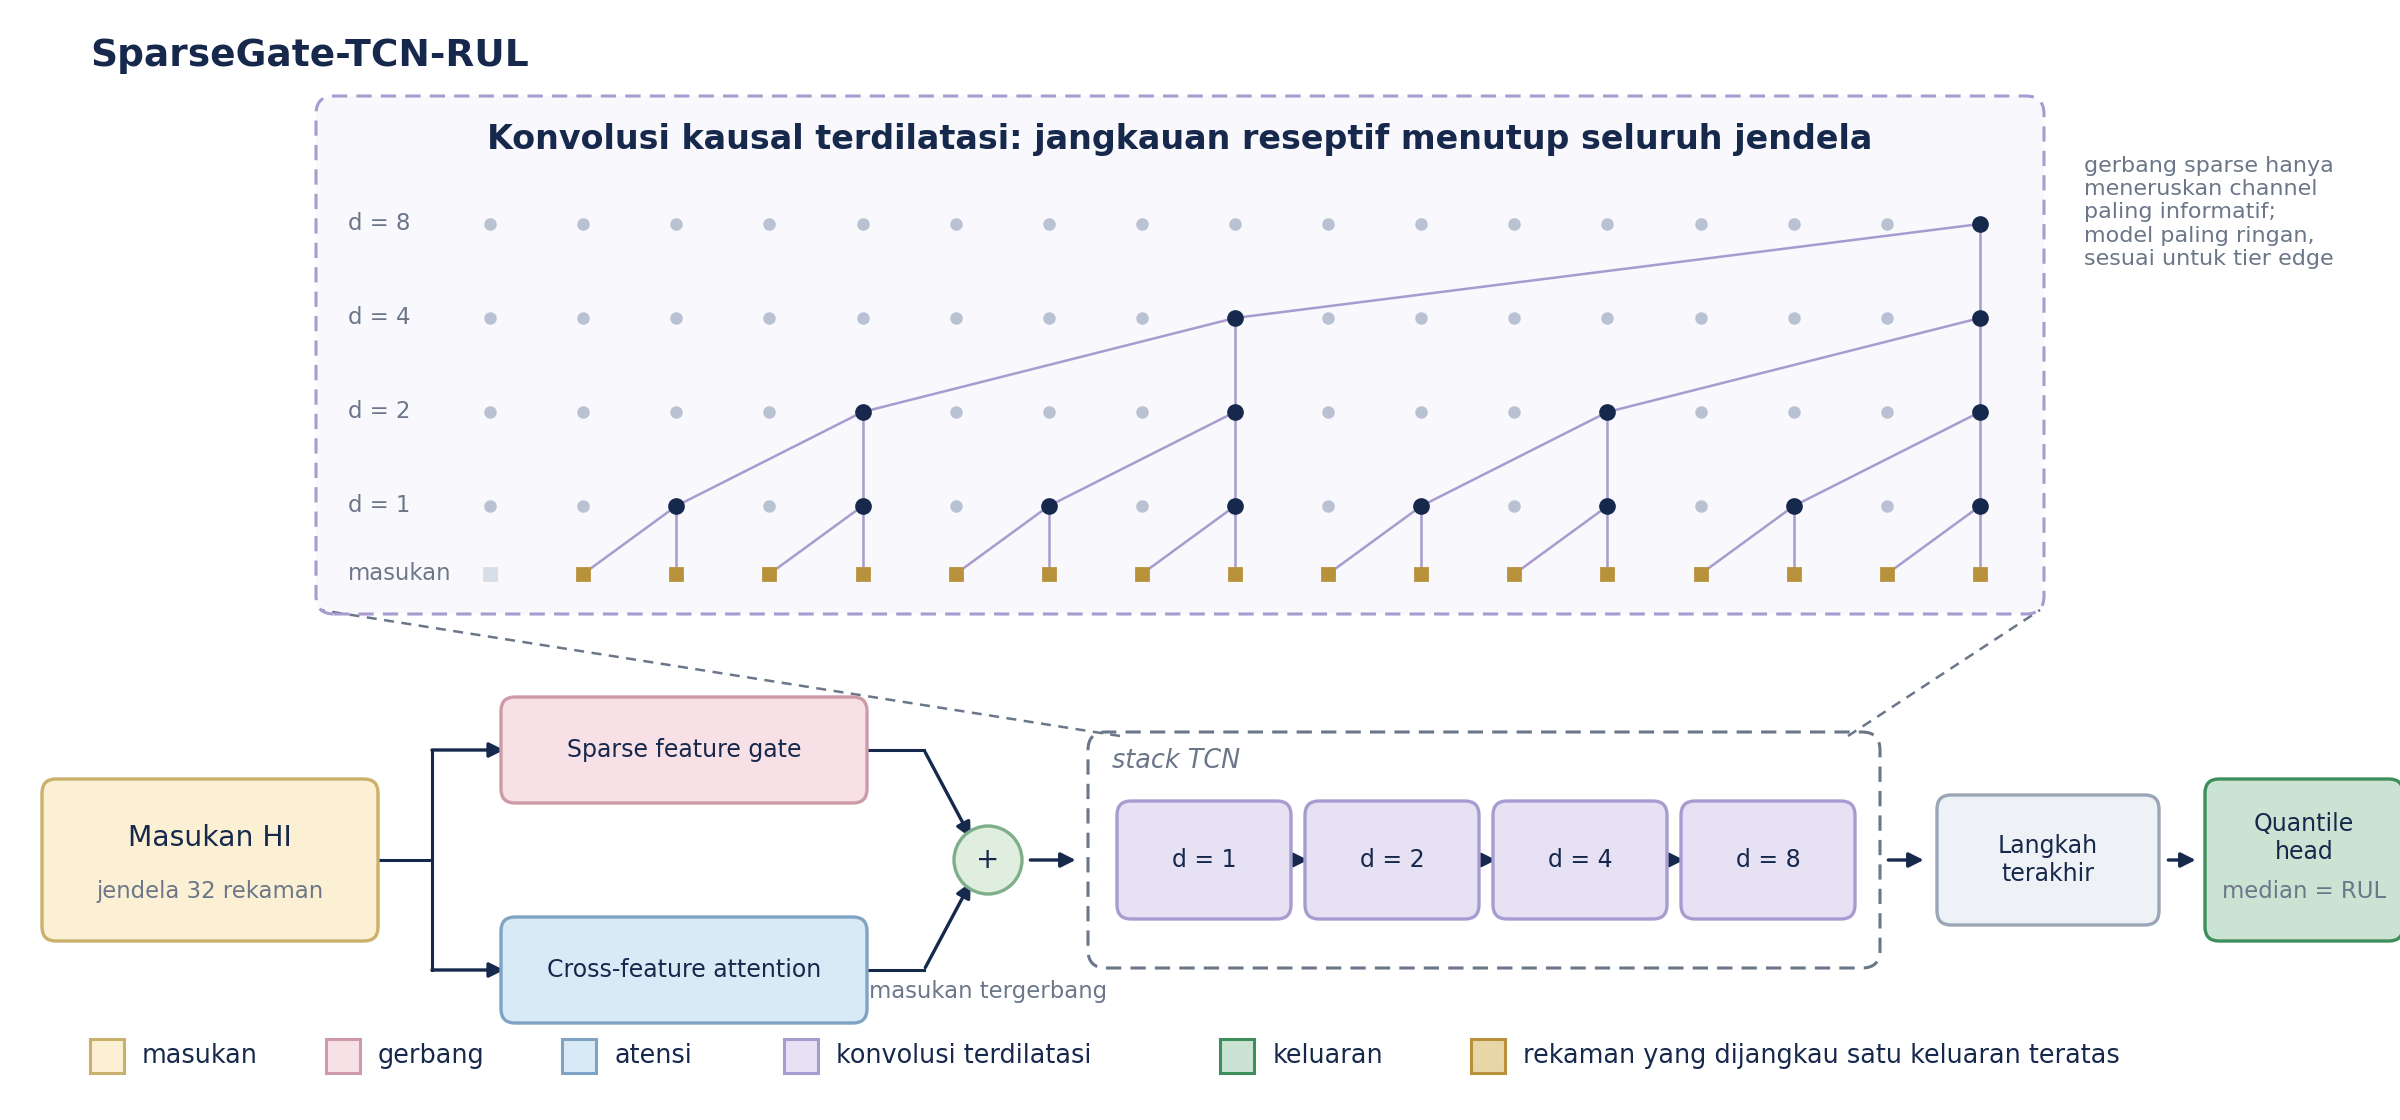
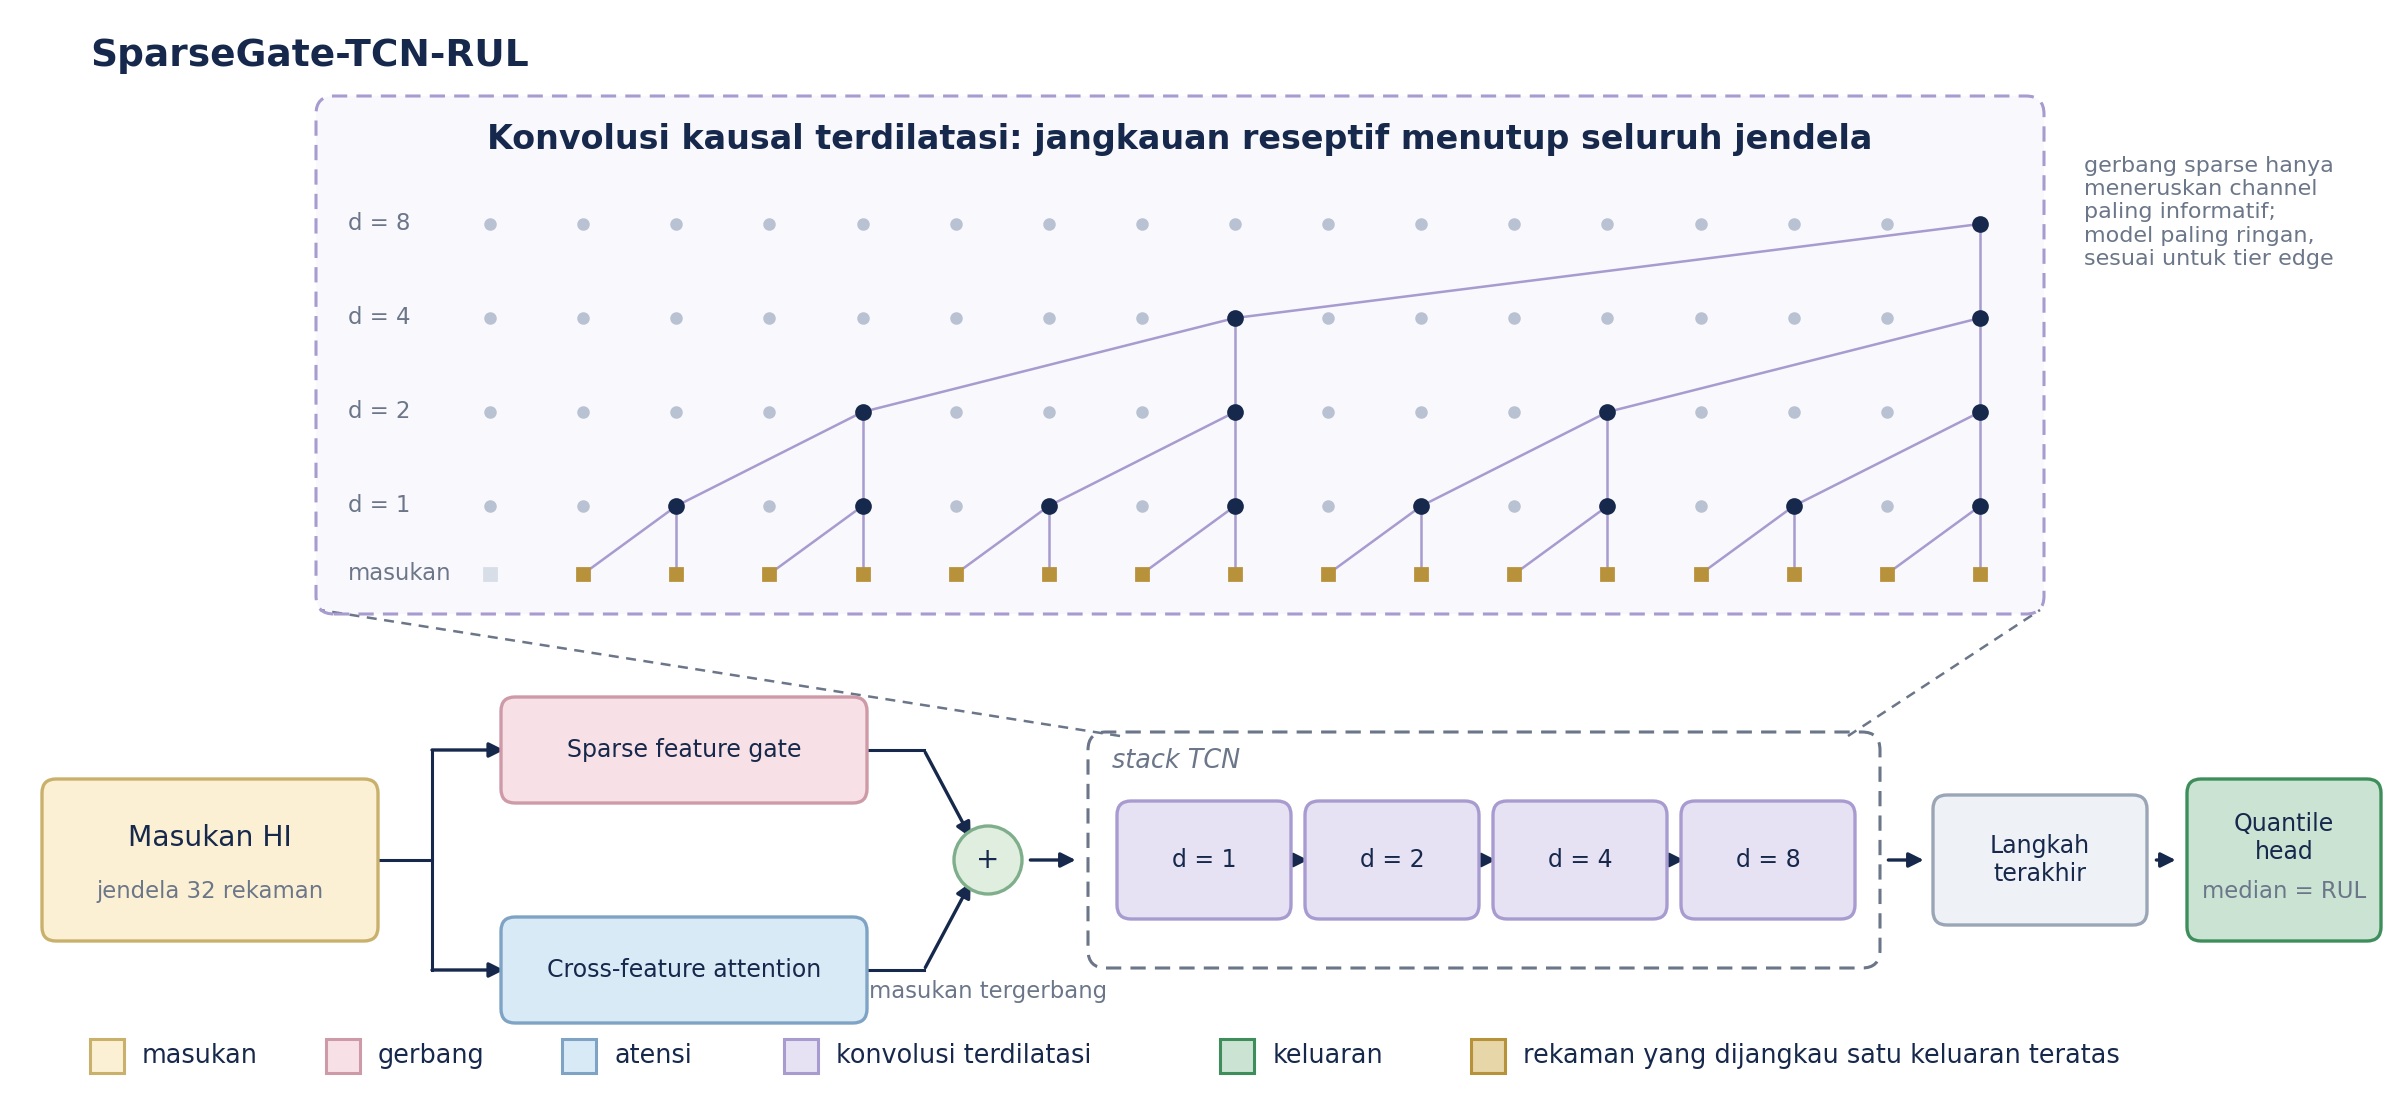
fix(presentation): diagram sizing polish + README for the diagram pipeline
Pin figure heights where wide-flat diagrams letterboxed inside flex cards
(SAE, SAE-BPFx, WDCNN backup), compress the WDCNN canvas so it renders
larger on its slide, keep edge-hugging boxes inside the diagram canvas,
and swap the Mamba slide's overflowing kvrows for a flowing bullet panel.
README documents make diagrams, the shared palette, and the 52-slide
structure. 129 tests green.

Claude-Session: https://claude.ai/code/session_01VPxUBMA37K3bjY1ZnjmBgu

Changed region(s): [[0.7812, 0.6875, 1.0, 0.8438]]

diff --git a/presentation/tools/render_diagrams.py b/presentation/tools/render_diagrams.py
@@ -391,9 +391,9 @@ def sparsegate_tcn_full():
         if i < 3:
             arrow(ax, (6.44 + i * 0.94, my), (6.54 + i * 0.94, my), shrink=0, lw=0.9)
     arrow(ax, (9.40, my), (9.66, my))
-    box(ax, 10.24, my, 1.08, 0.62, "Langkah\nterakhir", kind="util", fs=8.5)
-    arrow(ax, (10.80, my), (11.02, my))
-    box(ax, 11.52, my, 0.96, 0.78, "Quantile\nhead", kind="out", fs=8.5, sub="median = RUL")
+    box(ax, 10.20, my, 1.04, 0.62, "Langkah\nterakhir", kind="util", fs=8.5)
+    arrow(ax, (10.74, my), (10.92, my))
+    box(ax, 11.42, my, 0.94, 0.78, "Quantile\nhead", kind="out", fs=8.5, sub="median = RUL")
 
     # ---- zoom panel: dilated receptive field ------------------------------
     px, py, pw, ph = 1.60, 2.55, 8.60, 2.55
@@ -460,8 +460,8 @@ def sparsegate_tcn_full():
 # 4 · WDCNN
 # --------------------------------------------------------------------------
 def wdcnn_full():
-    fig, ax = new_fig(12.0, 3.9)
-    my = 2.30
+    fig, ax = new_fig(12.0, 3.55)
+    my = 1.95
 
     box(ax, 1.05, my, 1.70, 1.10, "Raw signal\n1 × 2.048", kind="input", sub="channel drive-end")
     waveform(ax, 0.40, my - 0.34, 1.30, 0.28, seed=11)
@@ -485,9 +485,9 @@ def wdcnn_full():
     arrow(ax, (10.43, my), (10.73, my))
     box(ax, 11.28, my, 1.02, 0.72, "Softmax\n10 kelas", kind="out", fs=8.5, bold=True)
 
-    ax.text(0.45, 3.62, "WDCNN (Wide First-layer Kernels)", ha="left", va="center",
+    ax.text(0.45, 3.30, "WDCNN (Wide First-layer Kernels)", ha="left", va="center",
             fontsize=FS_TITLE + 1, color=INK, fontweight="bold")
-    ax.text(9.05, 3.62, "lima blok konvolusi mereduksi dimensi temporal",
+    ax.text(8.95, 3.30, "lima blok mereduksi dimensi temporal",
             ha="left", va="center", fontsize=FS_NOTE, color=MUTED, style="italic")
 
     legend_row(ax, 0.45, 0.40, [
@@ -533,9 +533,9 @@ def topk_sae():
     ax.text(gx + nx * cell / 2, gy - 0.14, "hanya k = 51 fitur (sekitar 5 %)\naktif per sampel",
             ha="center", va="top", fontsize=FS_TINY, color=MUTED)
     arrow(ax, (gx + nx * cell + 0.06, my), (gx + nx * cell + 0.40, my))
-    box(ax, 10.34, my, 1.24, 0.62, "Decoder\nlinear", kind="proj", fs=8.5, sub="$W_{dec}$")
-    arrow(ax, (10.98, my), (11.24, my))
-    box(ax, 11.62, my, 0.72, 0.92, "$\\hat{h}$", kind="out", fs=10, sub="MSE\n< 0,001")
+    box(ax, 10.30, my, 1.24, 0.62, "Decoder\nlinear", kind="proj", fs=8.5, sub="$W_{dec}$")
+    arrow(ax, (10.94, my), (11.16, my))
+    box(ax, 11.54, my, 0.72, 0.92, "$\\hat{h}$", kind="out", fs=10, sub="MSE\n< 0,001")
 
     ax.text(0.45, 4.38, "Top-k Sparse Autoencoder (SAE)", ha="left", va="center",
             fontsize=FS_TITLE + 1, color=INK, fontweight="bold")

diff --git a/presentation/README.md b/presentation/README.md
@@ -14,9 +14,9 @@ identical to the version Pak Toto approved.
 citation, and claim in the deck traces to it — not to the older
 `dissertation-docx/` tree, whose numbers conflict with V14 in places.
 
-## Deck structure (47 slides)
+## Deck structure (52 slides)
 
-The main deck (35 slides) is organised around V14's **four rumusan masalah**:
+The main deck (40 slides) is organised around V14's **four rumusan masalah**:
 an intro arc (latar belakang, istilah inti untuk penguji non-informatika,
 kesenjangan, the RM spine slide reprising Tabel I.3, kerangka, dataset), then
 four acts — one per RM — each opened by a `section` divider restating the
@@ -26,12 +26,19 @@ industrial-engineering panel sit just-in-time: ML vs DL, cara membaca RUL,
 analogi stabilo for SHAP, kamus konsep for the SAE. Twelve backup slides
 ("Cadangan") follow the closing slide for the Q&A session.
 
+Every algorithm carries a **paper-style block diagram** rendered by
+`make diagrams` (see below): the classic-ML trio, one architecture slide per
+RUL backbone (Mamba-xLSTM-Net, N-BEATS-xLSTM-RUL, SparseGate-TCN-RUL), the
+sinyal→FSM pipeline, the Top-k SAE, the SAE→BPFx procedure, WDCNN (backup),
+and the streaming inference engine (backup).
+
 ## Quick start
 
 ```bash
 cd presentation
 make install          # python-pptx, PyYAML, lxml, Pillow
 make v14-assets       # extract deck figures from the V14 DOCX media
+make diagrams         # render the paper-style algorithm diagrams (matplotlib)
 make build            # content/sidang-terbuka.yaml -> out/….pptx
 make preview          # build + PDF via LibreOffice
 make png              # build + one PNG per slide (needs poppler)
@@ -53,13 +60,15 @@ presentation/
 ├── Makefile
 ├── assets/
 │   ├── logo-itb.png            ITB seal used on the cover
+│   ├── diagrams/               algorithm diagrams rendered by make diagrams
 │   └── v14/                    figures extracted from the V14 DOCX media
 ├── content/
 │   └── sidang-terbuka.yaml     ★ the deck content — this is what you edit
 ├── reference/
 │   └── Sidang_Disertasi_…_v2.pptx   approved template the design was derived from
 ├── tools/
-│   └── extract_v14_media.py    pulls figures out of the V14 DOCX by media index
+│   ├── extract_v14_media.py    pulls figures out of the V14 DOCX by media index
+│   └── render_diagrams.py      draws the 9 algorithm diagrams (matplotlib)
 ├── deck/
 │   ├── theme.py                design tokens: palette, type scale, grid
 │   ├── shapes.py               primitives + inline markup + text measurement
@@ -70,6 +79,7 @@ presentation/
 │   └── builder.py              spec loading, linting, rendering
 ├── tests/
 │   ├── test_deck.py            renderer + layout regressions
+│   ├── test_diagrams.py        diagram set complete, sized, and referenced
 │   └── test_provenance.py      every slide figure must exist in the V14 manuscript
 └── out/                        build artifacts (git-ignored)
 ```
@@ -179,6 +189,20 @@ a claim passing via the stale tree would defeat the guard.
 
 It skips cleanly when the V14 DOCX is absent. When a number legitimately
 changes in the manuscript, update the YAML and the matching entry in `CLAIMS`.
+
+## Algorithm diagrams
+
+`tools/render_diagrams.py` (`make diagrams`) draws one PNG per method into
+`assets/diagrams/`, in the block-diagram idiom of Jiang dkk. (2026),
+*Sensors* **26**:1578: rounded colour-coded blocks, dashed "n×" repeat
+containers, zoom-in panels for cell internals, and a legend row per figure.
+One master palette maps component function to colour across all nine figures
+(kuning masukan · ungu proyeksi/konvolusi · biru pemodelan sekuens · hijau
+memori/state · merah muda gating · hijau tua keluaran · emas fitur aktif),
+with the deck navy as ink. Every number drawn is asserted against the V14
+text by `tests/test_provenance.py`, and the slides that carry a redrawn
+figure cite it as "Digambar ulang berdasarkan Gambar X.N". Iterate with
+`python3 tools/render_diagrams.py --only <name>`.
 
 ## Re-deriving the template
 
